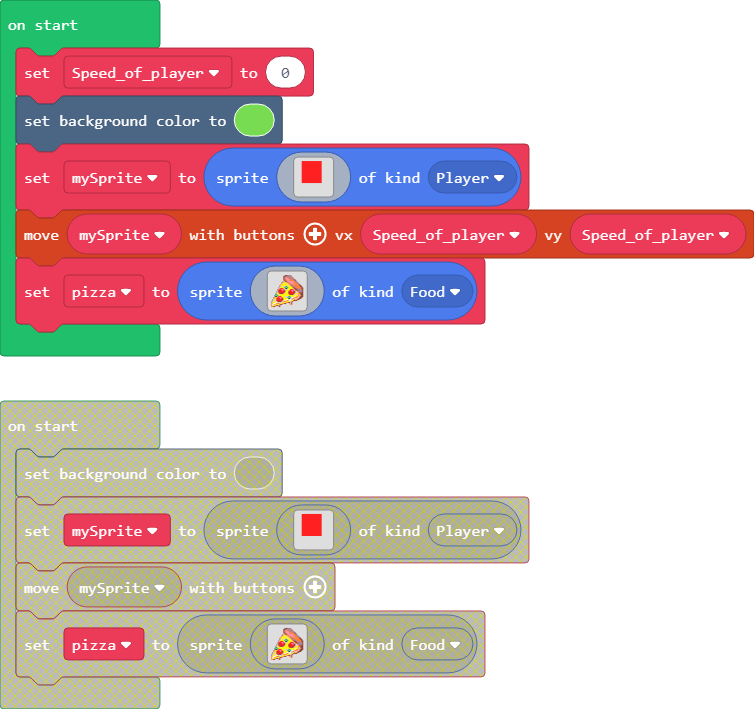
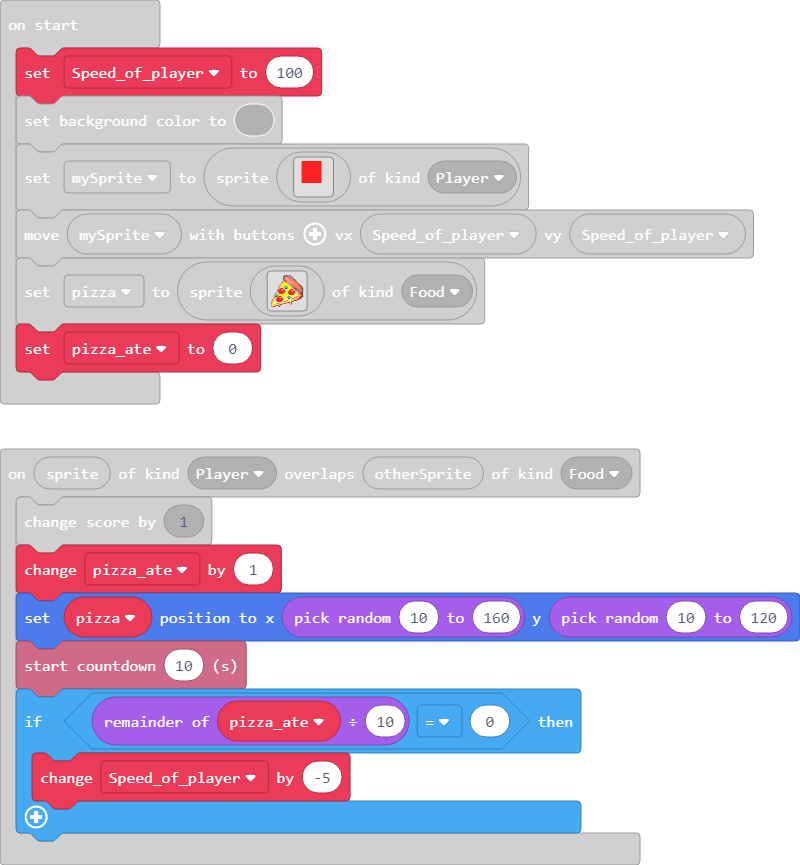
Update main.blocks, main.ts

diff --git a/main.ts b/main.ts
@@ -3,11 +3,16 @@ namespace SpriteKind {
 }
 sprites.onOverlap(SpriteKind.Player, SpriteKind.Food, function (sprite, otherSprite) {
     info.changeScoreBy(1)
+    pizza_ate += 1
     pizza.setPosition(Math.randomRange(10, 160), Math.randomRange(10, 120))
     info.startCountdown(10)
+    if (pizza_ate % 10 == 0) {
+        Speed_of_player += -5
+    }
 })
+let pizza_ate = 0
 let pizza: Sprite = null
-let Speed_of_player = 0
+let Speed_of_player = 100
 scene.setBackgroundColor(7)
 let mySprite = sprites.create(img`
 . . 2 2 2 2 2 2 2 2 2 2 . . . . 
@@ -62,3 +67,4 @@ b 5 5 5 1 1 5 d d d d 5 5 d 5 4 4 e e d e . . . . . . . . . . .
 4 1 5 5 4 e e d e . . . . . . . . . . . . . . . . . . . . . . . 
 4 4 e e . . . 4 e . . . . . . . . . . . . . . . . . . . . . . . 
 `, SpriteKind.Food)
+pizza_ate = 0
